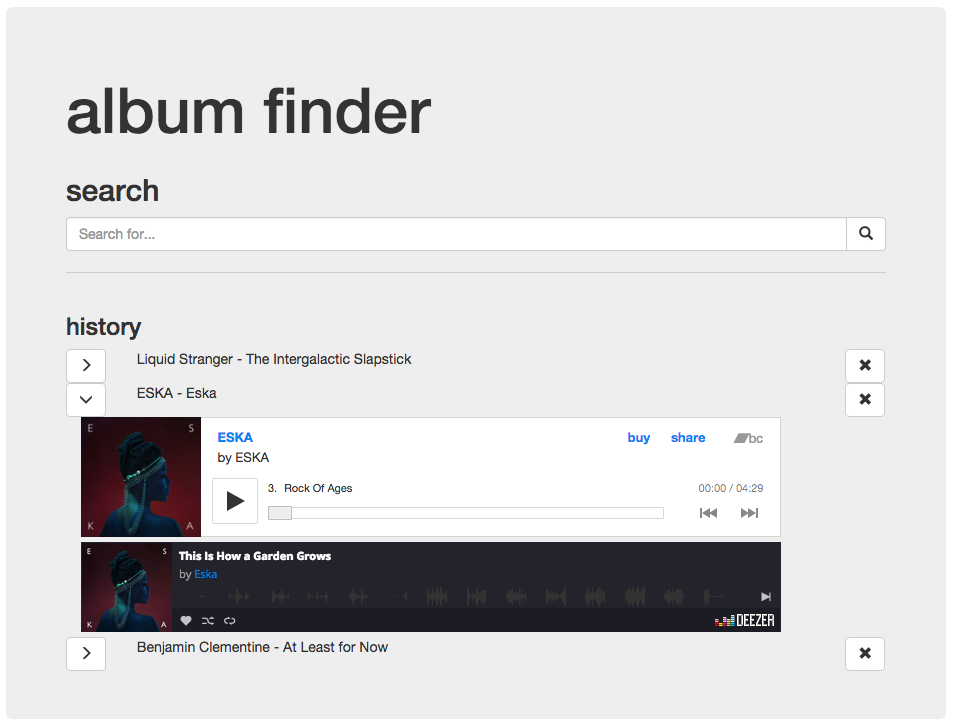
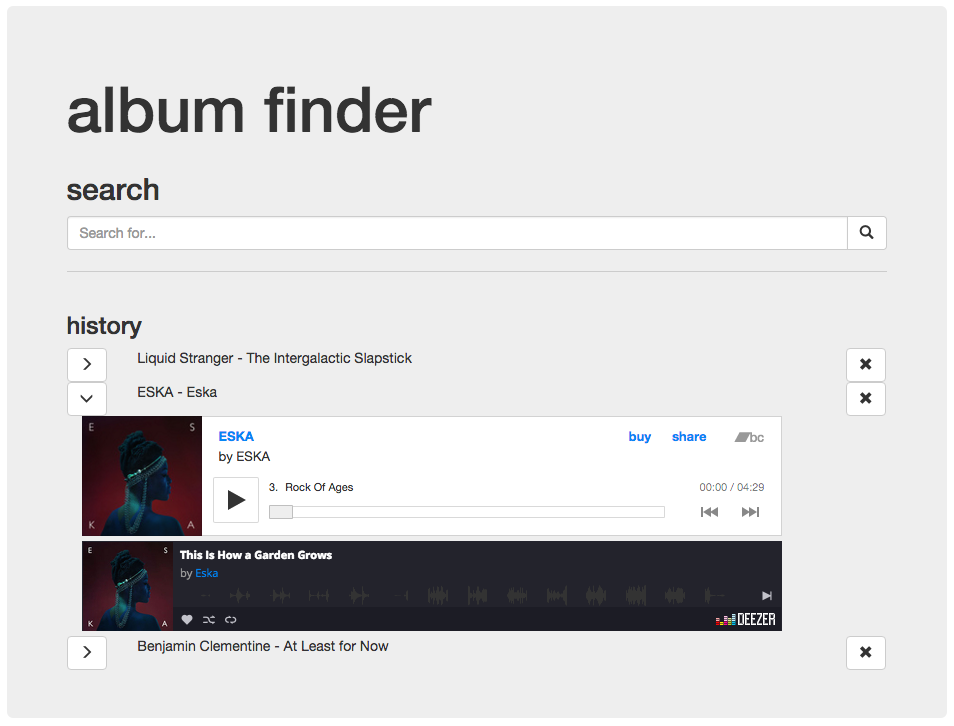
replace original static image, reported as corrupt

diff --git a/README.md b/README.md
@@ -6,7 +6,7 @@ MuSAPI searches multiple sources for album previews and returns them as JSON. al
 
 ## Progress
 
-- [x] Static preview: view [preview](https://github.com/sonicblend/album-finder/blob/master/screenshots/static.png)
+- [x] Static preview: [see history](https://github.com/sonicblend/album-finder/blob/master/screenshots/static.png)
 - [x] Dynamic site
   - [x] Model
     - [x] Pre-populated from array (temporary)
